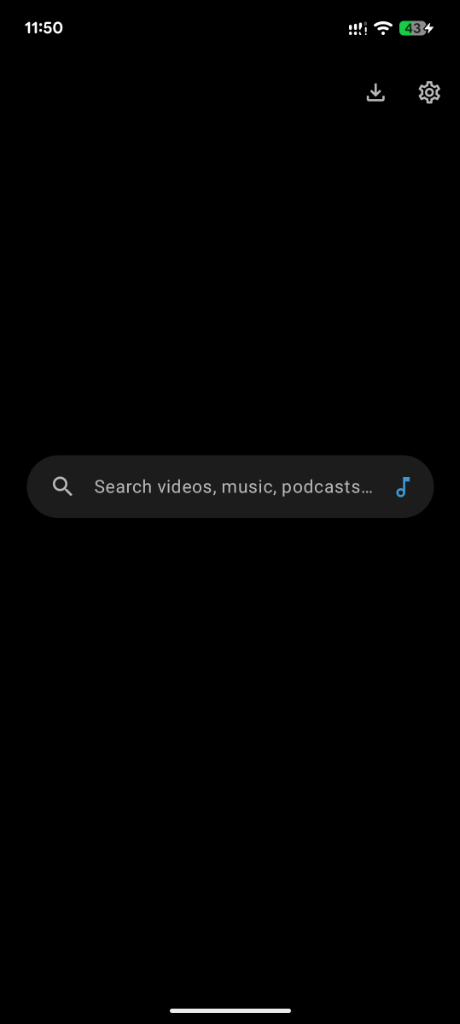
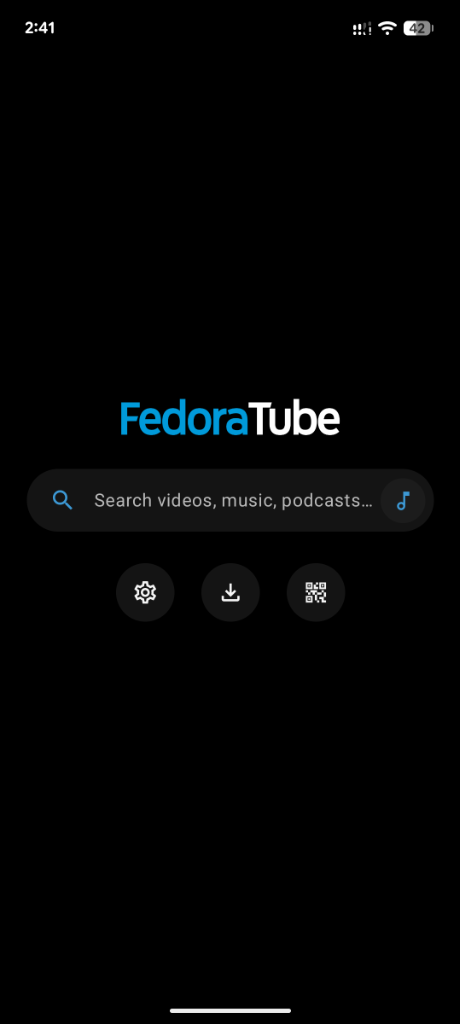
docs: update README with new screenshots, shorts block feature, and clean layout

diff --git a/README.md b/README.md
@@ -1,56 +1,21 @@
 <div align="center">
 
-<img src="Assets/logo.png" width="130" alt="Fedora Tube Logo" style="border-radius: 26px; box-shadow: 0 8px 24px rgba(0, 114, 239, 0.35);">
+<img src="Assets/logo.png" width="120" alt="FedoraTube Logo" style="border-radius: 24px; box-shadow: 0 8px 24px rgba(0, 114, 239, 0.35);">
 
-# Fedora Tube
+# FedoraTube
 
-**An elegant, privacy-respecting YouTube & YouTube Music client designed for Android.**
+**A fast, elegant, and distraction-free YouTube & YouTube Music client designed for Android.**
 
 <br>
 
 [![Latest Release](https://img.shields.io/github/v/release/muhammadmarowan/FedoraTube?style=for-the-badge&color=0072EF&logo=github&label=Release)](https://github.com/muhammadmarowan/FedoraTube/releases/latest)
-[![Download APK](https://img.shields.io/github/v/release/muhammadmarowan/FedoraTube?style=for-the-badge&color=00C853&logo=android&logoColor=white&label=DOWNLOAD%20APK)](https://github.com/muhammadmarowan/FedoraTube/releases/latest)
+[![Platform](https://img.shields.io/badge/Platform-Android_8.0+-3DDC84?style=for-the-badge&logo=android&logoColor=white)](https://github.com/muhammadmarowan/FedoraTube/releases/latest)
+[![Shorts Blocked](https://img.shields.io/badge/Shorts-100%25_Blocked-FF0000?style=for-the-badge&logo=youtube&logoColor=white)](https://github.com/muhammadmarowan/FedoraTube)
 [![License: GPL v3](https://img.shields.io/badge/License-GPLv3-blue.svg?style=for-the-badge)](License)
-[![Platform](https://img.shields.io/badge/Platform-Android_8.0+-lightgrey?style=for-the-badge&logo=android)](https://developer.android.com)
 
 <br>
 
 </div>
-
----
-
-## ⚡ Highlights & Key Features
-
-### 🎯 Distraction-Free Focus Mode
-* **Minimalist Canvas:** Eliminate endless algorithmic feeds, recommendation rabbit holes, and distracting notifications.
-* **Direct Search-First Browsing:** Jump straight to the videos, podcasts, and songs you deliberately want to experience.
-* **Respect Your Time:** Take back control over your screen time with a distraction-free user interface designed for productivity and mindful listening.
-
-### 🎬 Ad-Free Streaming & SponsorBlock
-* **Zero Commercials & Trackers:** Watch videos without pre-roll, mid-roll, or banner ads.
-* **Built-in SponsorBlock:** Automatically skip sponsored segments, intros, outros, and subscribe reminders.
-* **Background Play & PiP:** Keep audio playing with your phone screen turned off or in Picture-in-Picture popup window mode.
-
-### 🎵 Dedicated YouTube Music Engine
-* **Full Music Hub:** Browse trending hits, top charts, artist discographies, and personalized mood stations.
-* **Synchronized Real-Time Lyrics:** Sing along with live-scrolling, time-synced lyrics (LRC support).
-* **Rich Audio Controls:** Sleek mini-player, full lock screen controls, and background playback.
-
-### 🔒 100% Private & Offline First
-* **On-Device Recommendation Engine:** Recommendations are computed privately on your device. Your watch habits never leave your phone.
-* **No Google Account Needed:** Full access to subscriptions, playlists, and history without any login.
-* **Backup & Restore:** Easily export and import your subscriptions and history anytime.
-
----
-
-## 📥 Downloads
-
-| Description | Download |
-| :--- | :--- | 
-| Recommended for modern Android phones | [Download APK](https://github.com/muhammadmarowan/FedoraTube/releases/latest) |
-| Compatible with all Android devices | [Download APK](https://github.com/muhammadmarowan/FedoraTube/releases/latest) |
-| For older 32-bit Android phones | [Download APK](https://github.com/muhammadmarowan/FedoraTube/releases/latest) |
-| For Android emulators & ChromeOS | [Download APK](https://github.com/muhammadmarowan/FedoraTube/releases/latest) |
 
 ---
 
@@ -61,25 +26,75 @@
     <tr>
       <td align="center" width="25%">
         <b>Home Feed</b><br>
+        <sub>Clean subscription & recommendation feed</sub><br><br>
         <img src="Assets/home.png" width="220" alt="Home Feed">
       </td>
       <td align="center" width="25%">
         <b>Music Hub</b><br>
+        <sub>Top charts, artists & mood playlists</sub><br><br>
         <img src="Assets/music.png" width="220" alt="Music Hub">
       </td>
       <td align="center" width="25%">
-        <b>Video Player</b><br>
-        <img src="Assets/player.png" width="220" alt="Video Player">
+        <b>Focus Mode</b><br>
+        <sub>Minimalist search-first canvas</sub><br><br>
+        <img src="Assets/focus_mode.png" width="220" alt="Focus Mode">
       </td>
       <td align="center" width="25%">
-        <b>Focus Mode</b><br>
-        <img src="Assets/focus_mode.png" width="220" alt="Focus Mode">
+        <b>Focus Mode Player</b><br>
+        <sub>Distraction-free comments & zero rabbit holes</sub><br><br>
+        <img src="Assets/focus_player.png" width="220" alt="Focus Mode Player">
       </td>
     </tr>
   </table>
 </div>
 
 <br>
+
+---
+
+## ⚡ Highlights & Key Features
+
+### 🚫 100% Shorts-Free & Anti-Doomscroll
+* **Zero Shorts Feeds:** YouTube Shorts are permanently disabled and stripped out across the entire application.
+* **No Reel Addiction:** Say goodbye to endless vertical scrolling traps—FedoraTube eliminates Shorts shelves, navigation, and recommendations entirely.
+* **Mindful Consumption:** Watch long-form, educational, and high-value content with full control over your time and focus.
+
+### 🎯 Minimalist Focus Mode
+* **Search-First Experience:** A clean, distraction-free interface featuring a central search bar with quick access to your media.
+* **No Algorithmic Clutter:** Suppress infinite home feeds and intrusive notifications.
+* **Focus Player:** Watch videos with comments accessible on-demand while related algorithmic suggestions stay hidden.
+* **Instant QR Sharing:** Share the application instantly with nearby friends directly from Focus Mode.
+
+### 🎵 Dedicated YouTube Music Engine
+* **Full Music Hub:** Browse trending hits, Top 100 charts, artist discographies, and personalized mood & genre stations (Chill, Focus, Gaming, Commute).
+* **Live Synced Lyrics:** Sing along with dynamic, real-time time-synced lyrics with one-tap flip album artwork.
+* **Audio-First Background Play:** Seamless background streaming, rich lock screen media notifications, and home screen Now Playing widget.
+
+### 🎬 Ad-Free Streaming & SponsorBlock
+* **Zero Commercials & Trackers:** Watch videos without pre-roll, mid-roll, or intrusive display advertisements.
+* **Built-in SponsorBlock:** Automatically skip sponsored segments, intros, outros, and subscribe reminders.
+* **Background Play & PiP:** Keep audio playing with your phone screen turned off or in Picture-in-Picture popup window mode.
+
+### 🔒 100% Private, Lightweight & Offline First
+* **On-Device Recommendation Engine:** Recommendations are computed privately on your phone. Your watch habits never leave your device.
+* **No Google Account Required:** Full access to subscriptions, playlists, and history without logging in.
+* **Featherweight & Optimized:** Engineered with R8 shrinking and minification for a tiny ~19 MB APK footprint and lightning-fast responsiveness.
+* **Backup & Restore:** Easily export and import your subscriptions and history anytime.
+
+---
+
+## 📥 Getting Started & Downloads
+
+You can download the latest official release APK from the [Releases page](https://github.com/muhammadmarowan/FedoraTube/releases/latest):
+
+| Architecture | Description | Download |
+| :--- | :--- | :--- |
+| **arm64-v8a** | **Recommended** for modern Android smartphones and tablets (64-bit) | [Download APK](https://github.com/muhammadmarowan/FedoraTube/releases/latest) |
+| **armeabi-v7a** | For older 32-bit Android devices | [Download APK](https://github.com/muhammadmarowan/FedoraTube/releases/latest) |
+| **universal** | All-in-one package compatible with every Android device | [Download APK](https://github.com/muhammadmarowan/FedoraTube/releases/latest) |
+| **x86 / x86_64** | For Android emulators and ChromeOS devices | [Download APK](https://github.com/muhammadmarowan/FedoraTube/releases/latest) |
+
+---
 
 <div align="center">
 
@@ -88,4 +103,6 @@
 This project is Free and Open Source Software distributed under the **GNU General Public License v3 (GPLv3)**.  
 In accordance with GPLv3, all source code and derivative modifications remain completely open and freely accessible.
 
-Copyright © 2026 **Fedora Tube Contributors**
+Copyright © 2026 **FedoraTube Contributors**
+
+</div>
